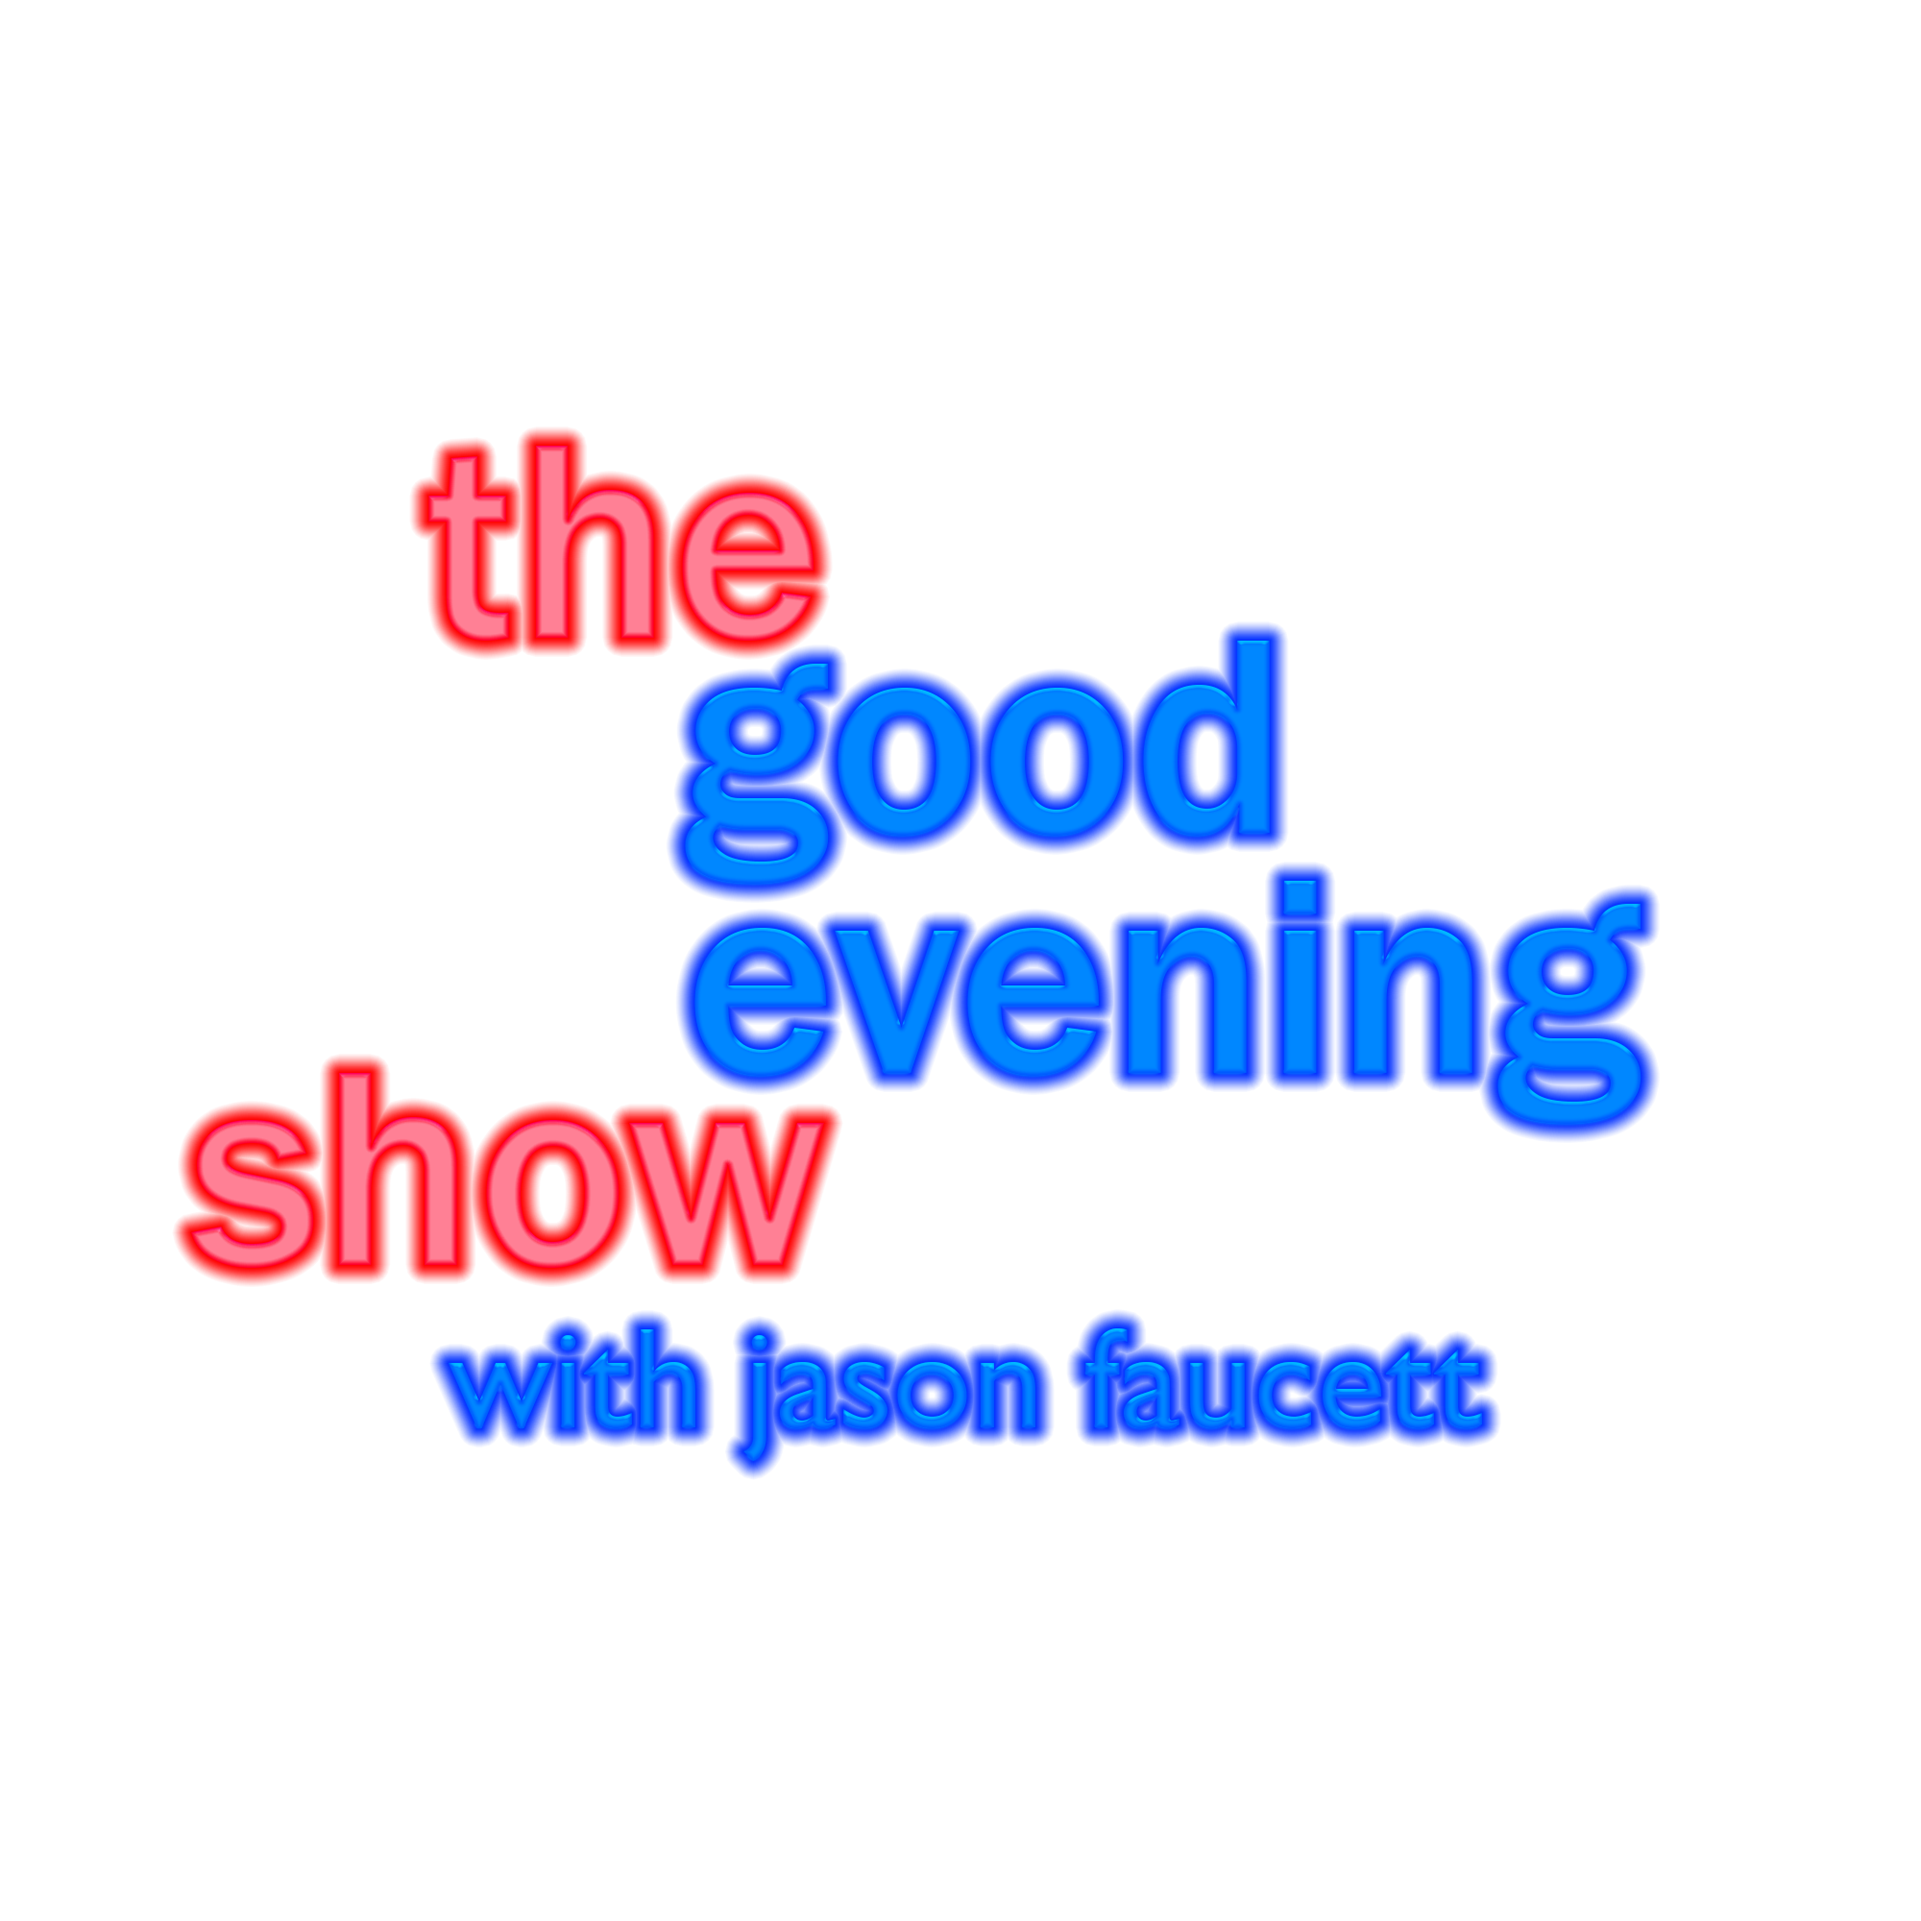
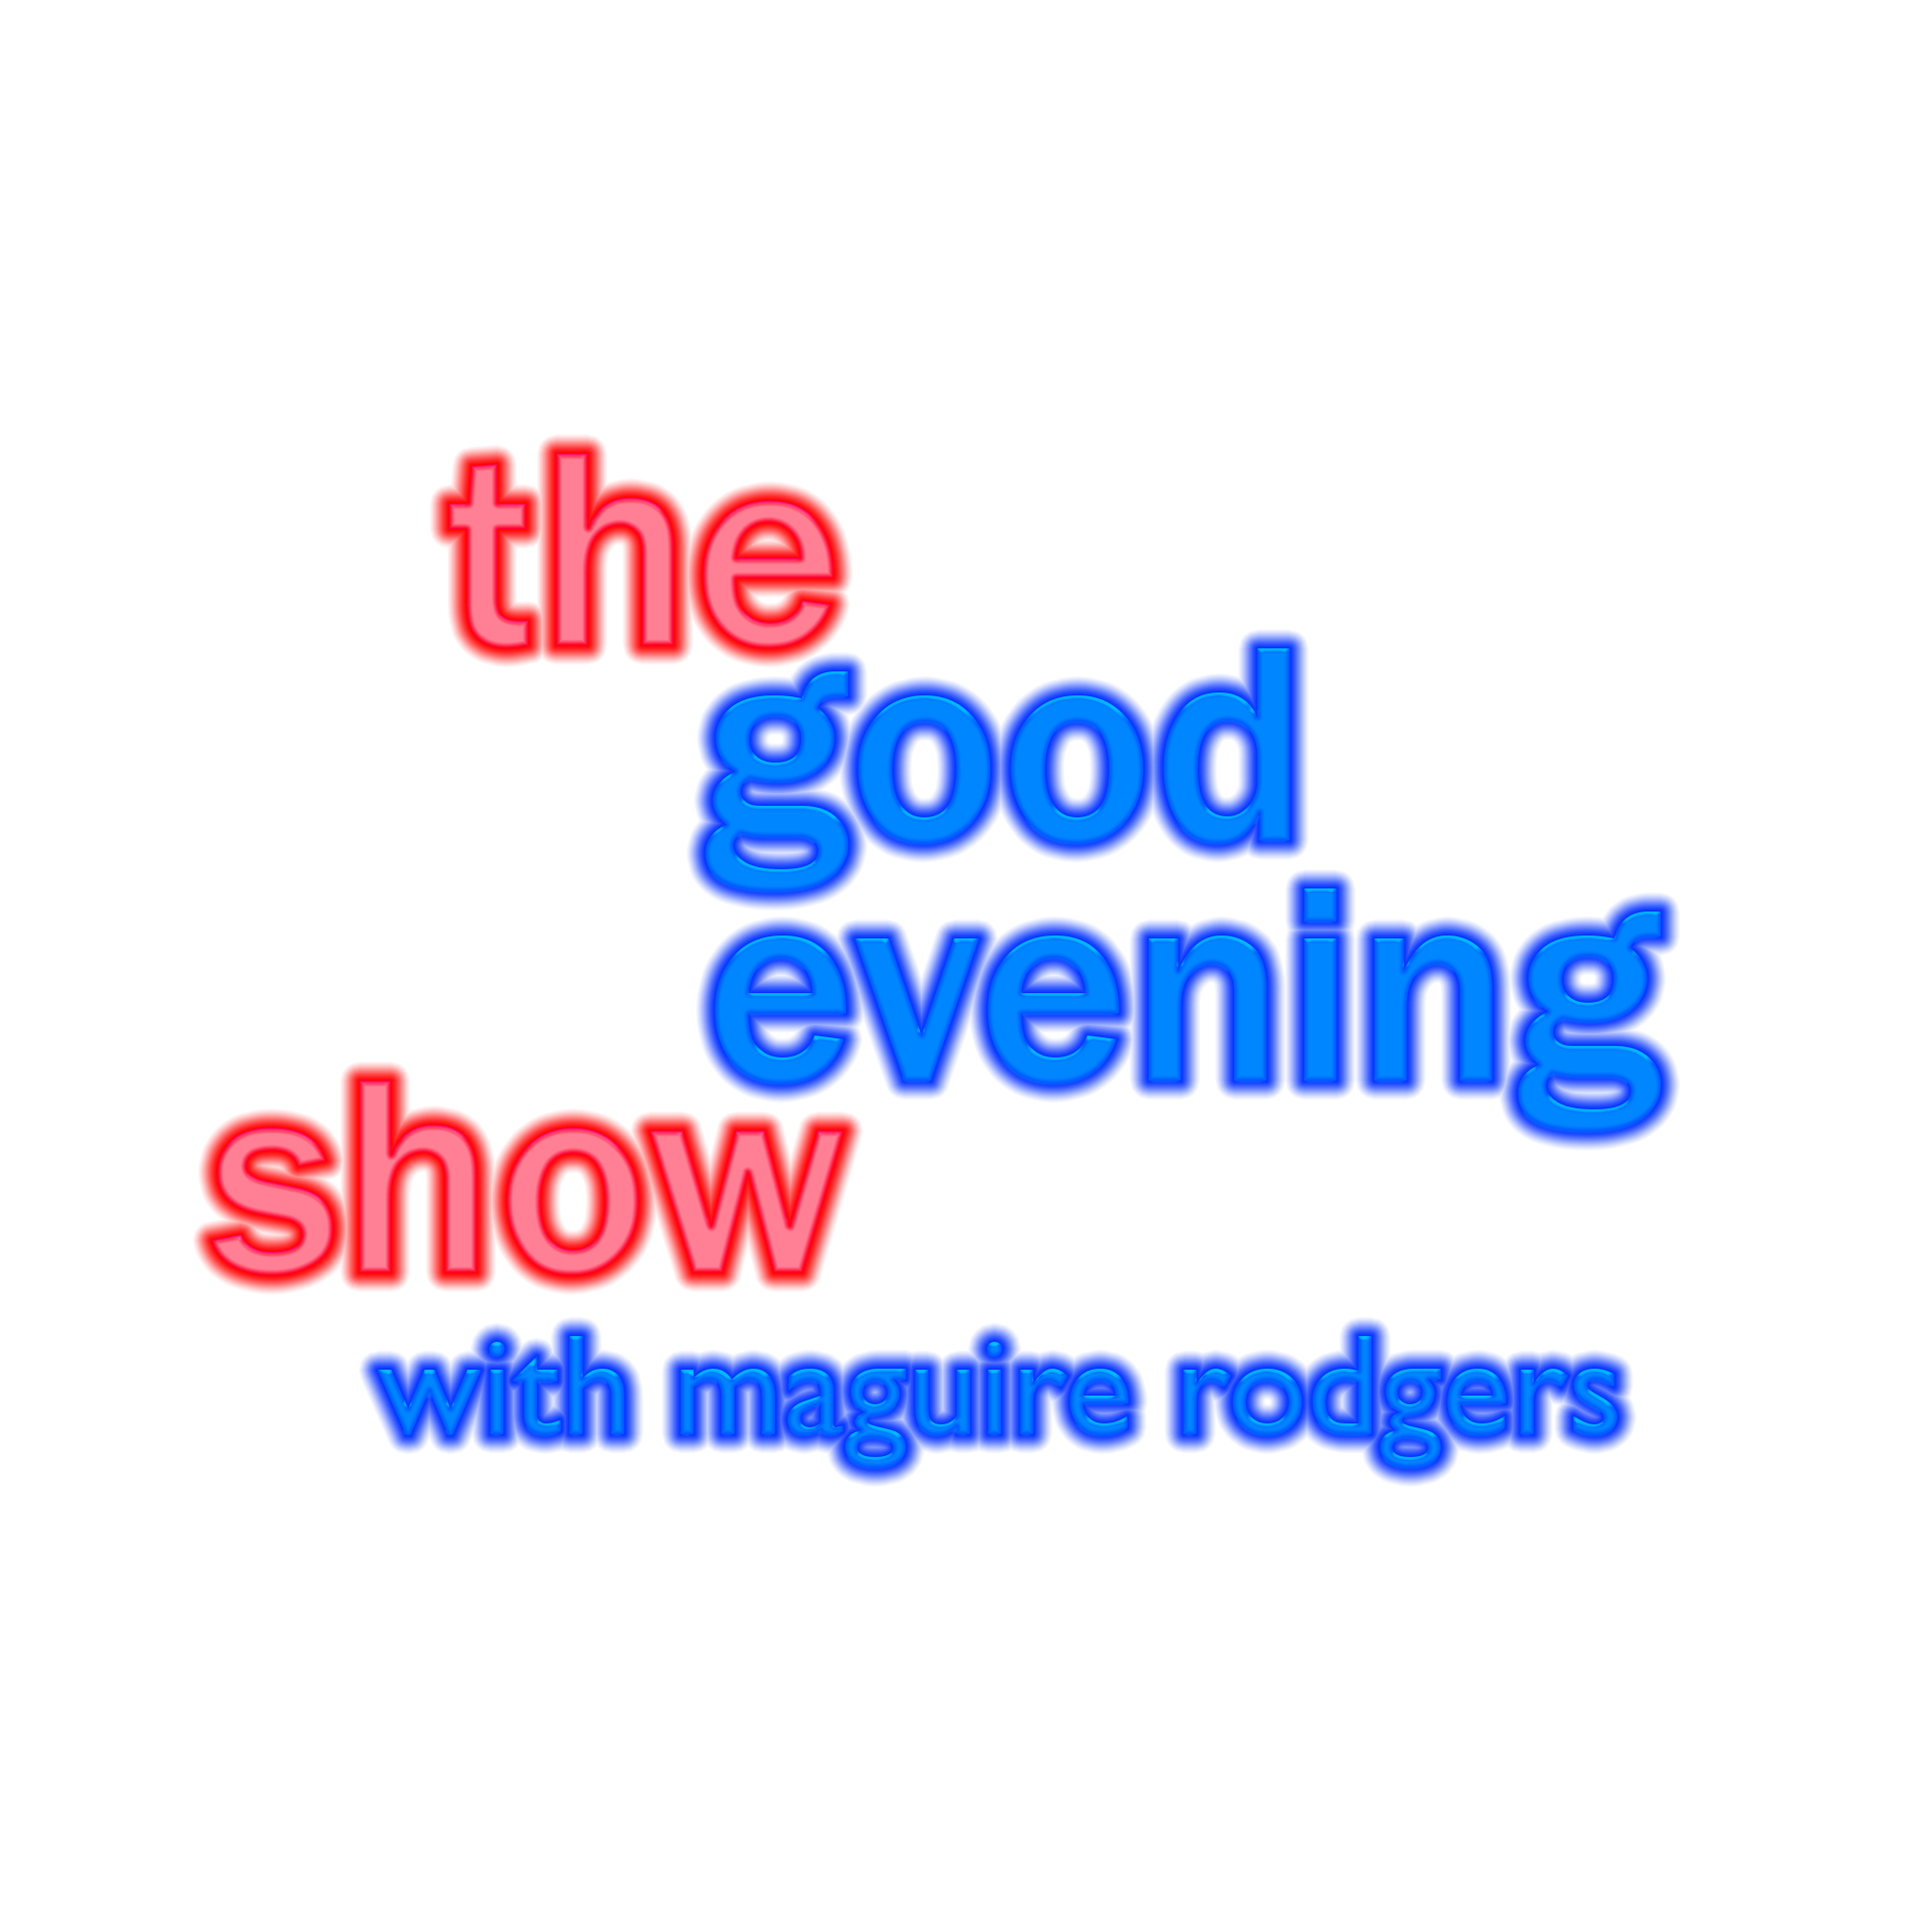
Remove ad code and add Maguire Rodgers

Changed region(s): [[0.093, 0.217, 0.899, 0.775]]

diff --git a/navigation.html b/navigation.html
@@ -9,13 +9,6 @@
   			gtag('js', new Date());
   			gtag('config', 'UA-77115094-3');
 		</script>
-        <script async src="https://pagead2.googlesyndication.com/pagead/js/adsbygoogle.js"></script>
-<script>
-     (adsbygoogle = window.adsbygoogle || []).push({
-          google_ad_client: "ca-pub-1944056069790480",
-          enable_page_level_ads: true
-     });
-</script>
 <meta charset="utf-8">
         <title>Navigation Bar - Blue Cove</title>
         <link rel="stylesheet" href="/css/navstyles.css">
@@ -45,7 +38,7 @@
                 <li style="float: left"><a href="https://bluecove.nosiphus.com/"><img src="/images/jack.png" alt="Blue Cove"></a></li>
 				<li style="float: left"><a href="/conspiracies.html"><img src="/images/shows/conspiracies.png" alt="Conspiracies with Nate Sawyers"></a></li>
 				<li style="float: left"><a href="/the-dank-memes-report.html"><img src="/images/shows/the-dank-memes-report.png" alt="The Dank Memes Report with Wyatt Mote"></a></li>
-				<li style="float: left"><a href="/the-good-evening-show.html"><img src="/images/shows/the-good-evening-show.png" alt="The Good Evening Show with Jason Faucett"></a></li>
+				<li style="float: left"><a href="/the-good-evening-show.html"><img src="/images/shows/the-good-evening-show.png" alt="The Good Evening Show with Maguire Rodgers"></a></li>
 				<li style="float: left"><a href="/lunatics.html"><img src="/images/shows/lunatics.png" alt="Lunatics with Sean Crain"></a></li>
 				<li style="float: left"><a href="/the-nate-show.html"><img src="/images/shows/the-nate-show.png" alt="The Nate Show with Nathan Brandon"></a></li>
 				<li style="float: left"><a href="/nosiphus-nightly-news.html"><img src="/images/shows/nosiphus-nightly-news.png" alt="Nosiphus Nightly News with Sean Crain"></a></li>

diff --git a/the-good-evening-show.html b/the-good-evening-show.html
@@ -9,15 +9,8 @@
   			gtag('js', new Date());
   			gtag('config', 'UA-77115094-3');
 		</script>
-	<script async src="https://pagead2.googlesyndication.com/pagead/js/adsbygoogle.js"></script>
-<script>
-     (adsbygoogle = window.adsbygoogle || []).push({
-          google_ad_client: "ca-pub-1944056069790480",
-          enable_page_level_ads: true
-     });
-</script>
 <meta charset="utf-8">
-	<title>The Good Evening Show with Jason Faucett - Blue Cove</title>
+	<title>The Good Evening Show with Maguire Rodgers - Blue Cove</title>
 	<link rel="stylesheet" href="/css/styles.css">
 	<link rel="icon" href="/favicon.ico" type="image/x-icon">
     <link rel="shortcut icon" href="/favicon.ico" type="image/x-icon">
@@ -28,7 +21,7 @@
 		<script>$(function(){$("#nav-placeholder").load("/navigation.html");});</script>
 	
 <p><img src="/images/shows/the-good-evening-show.png" alt="The Good Evening Show with Maguire Rodgers" style="width:33%"></p>
-	<p>Jason Faucett has expressed interest in taking up the hosting role of <em>The Good Evening Show</em>, succeeding Maguire Rodgers.</p>
+	<p><em>The Good Evening Show with Maguire Rodgers</em> was planned to be the flagship late-night comedy program of the Nosiphus Television System.</p>
 </body>
 <footer>
 	<p>© Copyright 2008 - 2019 Nosiphus. All Rights Reserved.</p>

diff --git a/the-nate-show.html b/the-nate-show.html
@@ -9,13 +9,6 @@
   			gtag('js', new Date());
   			gtag('config', 'UA-77115094-3');
 		</script>
-	<script async src="https://pagead2.googlesyndication.com/pagead/js/adsbygoogle.js"></script>
-<script>
-     (adsbygoogle = window.adsbygoogle || []).push({
-          google_ad_client: "ca-pub-1944056069790480",
-          enable_page_level_ads: true
-     });
-</script>
 <meta charset="utf-8">
 	<title>The Nate Show (formerly with Nathan Brandon) - Blue Cove</title>
 	<link rel="stylesheet" href="/css/styles.css">

diff --git a/nosiphus-nightly-news.html b/nosiphus-nightly-news.html
@@ -9,13 +9,6 @@
   			gtag('js', new Date());
   			gtag('config', 'UA-77115094-3');
 		</script>
-	<script async src="https://pagead2.googlesyndication.com/pagead/js/adsbygoogle.js"></script>
-<script>
-     (adsbygoogle = window.adsbygoogle || []).push({
-          google_ad_client: "ca-pub-1944056069790480",
-          enable_page_level_ads: true
-     });
-</script>
 <meta charset="utf-8">
 	<title>Nosiphus Nightly News with Sean Crain - Blue Cove</title>
 	<link rel="stylesheet" href="/css/styles.css">

diff --git a/the-dank-memes-report.html b/the-dank-memes-report.html
@@ -9,13 +9,6 @@
   			gtag('js', new Date());
   			gtag('config', 'UA-77115094-3');
 		</script>
-	<script async src="https://pagead2.googlesyndication.com/pagead/js/adsbygoogle.js"></script>
-<script>
-     (adsbygoogle = window.adsbygoogle || []).push({
-          google_ad_client: "ca-pub-1944056069790480",
-          enable_page_level_ads: true
-     });
-</script>
 <meta charset="utf-8">
 	<title>The Dank Memes Report with Wyatt Mote - Blue Cove</title>
 	<link rel="stylesheet" href="/css/styles.css">

diff --git a/404.html b/404.html
@@ -12,13 +12,6 @@ permalink: /404.html
   			gtag('js', new Date());
   			gtag('config', 'UA-77115094-3');
 		</script>
-	<script async src="https://pagead2.googlesyndication.com/pagead/js/adsbygoogle.js"></script>
-<script>
-     (adsbygoogle = window.adsbygoogle || []).push({
-          google_ad_client: "ca-pub-1944056069790480",
-          enable_page_level_ads: true
-     });
-</script>
 <meta charset="utf-8">
 	<title>404 Not Found - Blue Cove</title>
 	<link rel="stylesheet" href="/css/styles.css">

diff --git a/conspiracies.html b/conspiracies.html
@@ -9,13 +9,6 @@
   			gtag('js', new Date());
   			gtag('config', 'UA-77115094-3');
 		</script>
-	<script async src="https://pagead2.googlesyndication.com/pagead/js/adsbygoogle.js"></script>
-<script>
-     (adsbygoogle = window.adsbygoogle || []).push({
-          google_ad_client: "ca-pub-1944056069790480",
-          enable_page_level_ads: true
-     });
-</script>
 <meta charset="utf-8">
 	<title>Conspiracies with Nate Sawyers - Blue Cove</title>
 	<link rel="stylesheet" href="/css/styles.css">

diff --git a/lunatics.html b/lunatics.html
@@ -9,13 +9,6 @@
   			gtag('js', new Date());
   			gtag('config', 'UA-77115094-3');
 		</script>
-	<script async src="https://pagead2.googlesyndication.com/pagead/js/adsbygoogle.js"></script>
-<script>
-     (adsbygoogle = window.adsbygoogle || []).push({
-          google_ad_client: "ca-pub-1944056069790480",
-          enable_page_level_ads: true
-     });
-</script>
 <meta charset="utf-8">
 	<title>Lunatics with Sean Crain - Blue Cove</title>
 	<link rel="stylesheet" href="/css/styles.css">

diff --git a/index.html b/index.html
@@ -9,13 +9,6 @@
   			gtag('js', new Date());
   			gtag('config', 'UA-77115094-3');
 		</script>
-	<script async src="https://pagead2.googlesyndication.com/pagead/js/adsbygoogle.js"></script>
-<script>
-     (adsbygoogle = window.adsbygoogle || []).push({
-          google_ad_client: "ca-pub-1944056069790480",
-          enable_page_level_ads: true
-     });
-</script>
 <meta charset="utf-8">
 	<title>Home - Blue Cove</title>
 	<link rel="stylesheet" href="/css/styles.css">
